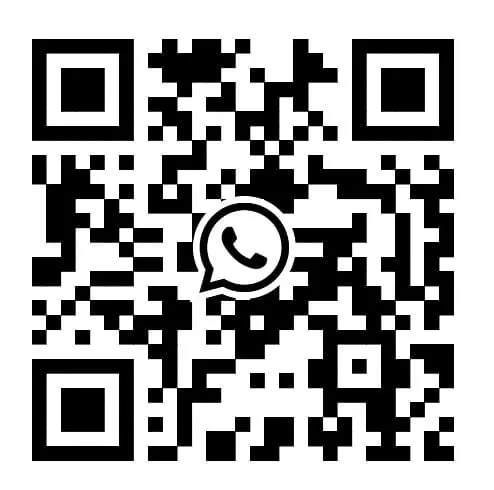
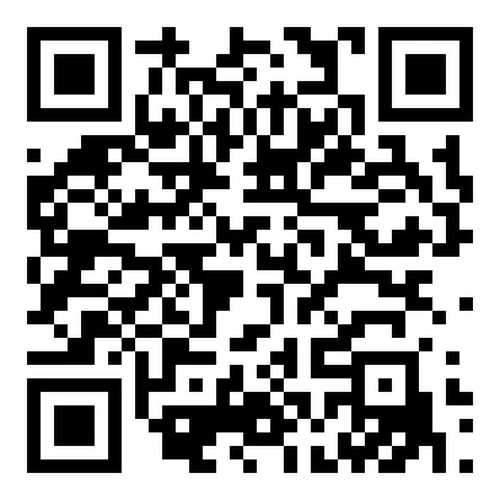
fix: update pengaduan WhatsApp number and regenerate QR
Both the link button and the scannable QR image now point to
wa.me/6281911068641, replacing the old QR short-link number.

diff --git a/index.html b/index.html
@@ -770,7 +770,7 @@
         <div class="pengaduan-body">
 
           <!-- QR placeholder — ganti src="barcode-pengaduan.png" dengan file QR yang sebenarnya -->
-          <a href="https://api.whatsapp.com/qr/5LSZJFBBWZLNN1?autoload=1&app_absent=0" target="_blank"
+          <a href="https://wa.me/6281911068641" target="_blank"
             rel="noopener noreferrer" style="text-decoration:none;flex-shrink:0;" title="Scan atau klik QR Pengaduan">
             <div class="qr-wrap">
               <img src="qr-code.webp" alt="QR Pengaduan" style="width: 88px; height: 88px; object-fit: contain;" />
@@ -782,8 +782,8 @@
             <div class="pengaduan-desc">
               Laporkan kasus, aduan, atau informasi terkait DBD di wilayah Kab. Blora secara mudah dan cepat.
             </div>
-            <!-- Ganti href="https://api.whatsapp.com/qr/5LSZJFBBWZLNN1?autoload=1&app_absent=0" dengan URL tujuan pengaduan -->
-            <a class="pengaduan-link" href="https://api.whatsapp.com/qr/5LSZJFBBWZLNN1?autoload=1&app_absent=0"
+            <!-- Ganti href="https://wa.me/6281911068641" dengan URL tujuan pengaduan -->
+            <a class="pengaduan-link" href="https://wa.me/6281911068641"
               target="_blank" rel="noopener noreferrer">
               <svg viewBox="0 0 24 24" fill="none">
                 <path d="M10 6H6a2 2 0 00-2 2v10a2 2 0 002 2h10a2 2 0 002-2v-4M14 4h6m0 0v6m0-6L10 14" stroke="white"
